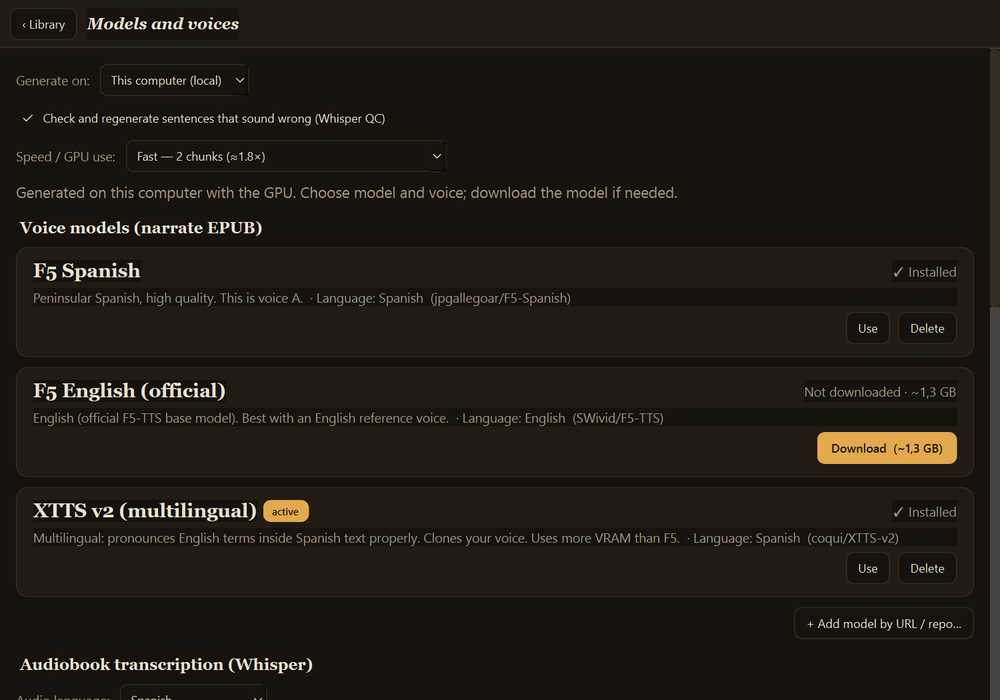
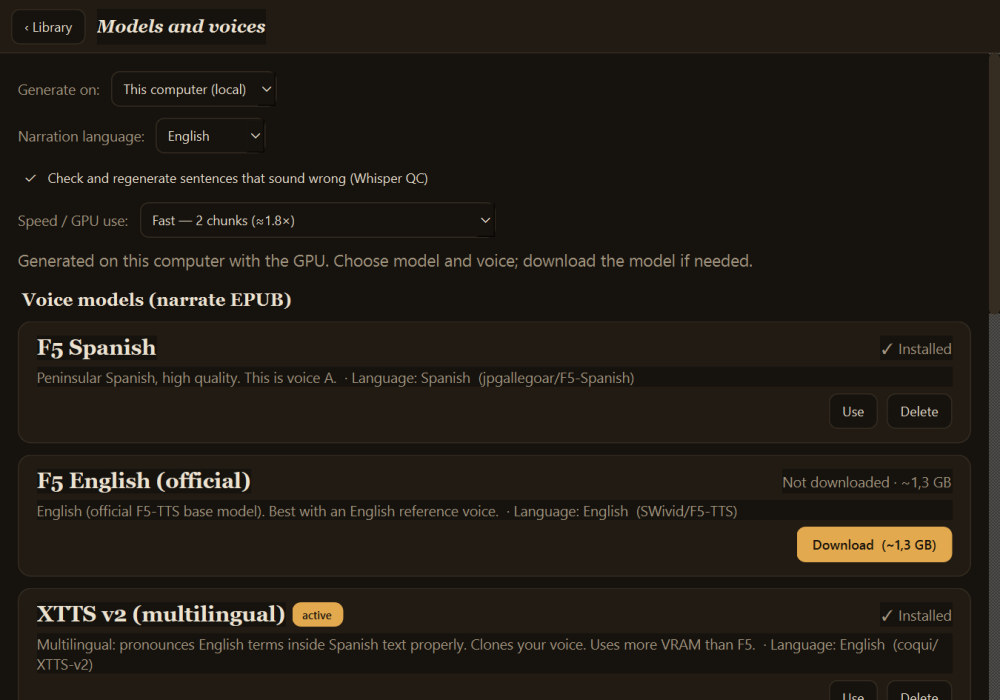
Versión 1.1: portada, changelog y textos sin el nombre de una máquina
Cada función nueva actualiza la portada: narrar en 17 idiomas, el servicio de voz por URL y las pausas
que siguen la puntuación, en los dos README y en la captura de Modelos. Seguridad menciona también
CodeQL y los tests en CI. Los textos de la app ya no nombran una máquina concreta: dicen «servidor».

Claude-Session: https://claude.ai/code/session_01St6UgjAcgBaqt8Zxu2zhgo

diff --git a/storyteller.py b/storyteller.py
@@ -2,9 +2,9 @@
 """
 Storyteller — app de escritorio (PySide6).
 Biblioteca de libros narrados + reproductor con subtitulos sincronizados.
-Lee un EPUB, lo manda a Mint para narrarlo con la voz neural (F5, voz A),
+Lee un EPUB, lo manda al servidor para narrarlo con la voz neural (F5, voz A),
 se trae la grabacion + el mapa de tiempos y lo reproduce (frase que suena
-resaltada, clic para saltar). La generacion corre en Mint (GPU) por SSH.
+resaltada, clic para saltar). La generacion corre en el servidor (GPU) por SSH.
 """
 import sys, os, re, json, shutil, subprocess, time, tempfile, threading
 from pathlib import Path
@@ -24,7 +24,7 @@ from st_core import (ACTIVE_GEN, EtaTracker, _atomic_write, book_resumable, chap
                      merge_stream_manifests, read_gen_state, recover_interrupted, slug,
                      split_ranges, snapshot_chapter as core_snapshot_chapter, venv_has, ENGINE_PACKAGES)
 
-__version__ = "1.0"
+__version__ = "1.1"
 
 MINT       = ""                      # servidor propio opcional (user@host); se configura en Modelos
 REMOTE_DIR = "epub-tts"                # relativa al home del usuario del servidor
@@ -163,8 +163,8 @@ def whisper_installed(w):
     return (model_dir(w["id"]) / "model.bin").exists()
 def qc_args_local(cfg=None):
     """Args de QC para los motores LOCALES (4070): usan el Whisper descargado en
-    «Modelos» (en CPU, sin red), NUNCA el voz-server del Mint. El remoto (Mint) hace
-    su QC en el propio Mint. Devuelve (args, aviso-o-None)."""
+    «Modelos» (en CPU, sin red), NUNCA el voz-server del servidor. El remoto hace
+    su QC en el propio servidor. Devuelve (args, aviso-o-None)."""
     cfg = cfg or load_config()
     if not cfg.get("qc_auto"):
         return [], None
@@ -401,7 +401,7 @@ class GenWorker(QThread):
                               encoding="utf-8", errors="replace", creationflags=NOWIN)
 
     def stop(self, save):
-        """Detiene la narración en Mint. save=True conserva lo hecho; False descarta."""
+        """Detiene la narración en el servidor. save=True conserva lo hecho; False descarta."""
         self.mode = "stopsave" if save else "cancel"
         try:
             # matar solo el python de narración; el script sigue y rearranca el voz-server
@@ -458,7 +458,7 @@ class GenWorker(QThread):
             if self.xtts:
                 r = self._run(SSH + [self.host, f"test -x {REMOTE_DIR}/.venv-xtts/bin/python && test -x {REMOTE_DIR}/run_xtts.sh"])
                 if r.returncode == 255:                    # 255 = no hay conexión
-                    self.failed.emit(_("No pude enviar el EPUB a Mint:\n") + r.stderr.strip())
+                    self.failed.emit(_("No pude enviar el EPUB al servidor:\n") + r.stderr.strip())
                     return
                 if r.returncode != 0 or not self.voice:
                     self.failed.emit(_("El servidor no tiene instalado XTTS. Elige otro modelo en «Modelos» o instálalo en el servidor."))
@@ -477,15 +477,15 @@ class GenWorker(QThread):
                     shutil.copyfile(epub, tmp_epub); epub = Path(tmp_epub)
             except Exception: pass
             remote_epub = f"{REMOTE_DIR}/inbox/{self.name}.epub"
-            self.progress.emit(_("Enviando el EPUB a Mint…"), -1)
+            self.progress.emit(_("Enviando el EPUB al servidor…"), -1)
             r = self._run(SCP + [str(epub), f"{self.host}:{remote_epub}"])
             if r.returncode != 0:
-                self.failed.emit(_("No pude enviar el EPUB a Mint:\n") + r.stderr.strip()); return
+                self.failed.emit(_("No pude enviar el EPUB al servidor:\n") + r.stderr.strip()); return
             if self.xtts:
                 try:
                     self._send_xtts(dest)
                 except RuntimeError as e:
-                    self.failed.emit(_("No pude enviar el EPUB a Mint:\n") + str(e)); return
+                    self.failed.emit(_("No pude enviar el EPUB al servidor:\n") + str(e)); return
 
             self.progress.emit(_("Reanudando el motor de voz…") if self.resume
                                else _("Arrancando el motor de voz…"), -1)
@@ -684,7 +684,7 @@ class LocalGenWorker(QThread):
                     cmd += ["--resume"]
                 if pron.exists():
                     cmd += ["--pron", str(pron)]
-                _qa, _note = qc_args_local()                 # QC en LOCAL = Whisper local (nunca el Mint)
+                _qa, _note = qc_args_local()                 # QC en LOCAL = Whisper local (nunca el servidor)
                 if _note: self.progress.emit(_note, -1)
                 cmd += _qa
             else:
@@ -700,7 +700,7 @@ class LocalGenWorker(QThread):
                     cmd += ["--pron", str(pron)]                  # diccionario de pronunciación
                 if self.voice:
                     cmd += ["--voice", str(self.voice["wav"]), "--voice-text", str(self.voice["txt"])]
-                _qa, _note = qc_args_local()                 # QC en LOCAL = Whisper local (nunca el Mint)
+                _qa, _note = qc_args_local()                 # QC en LOCAL = Whisper local (nunca el servidor)
                 if _note: self.progress.emit(_note, -1)
                 cmd += _qa
             # Nº de tramos en paralelo: reparte los capítulos entre N procesos en la
@@ -1610,8 +1610,8 @@ class ModelsScreen(QWidget):
         self.qcChk = QCheckBox(_("Revisar y regenerar frases que suenen mal (QC Whisper)"))
         self.qcChk.setToolTip(_("Tras narrar cada frase, la transcribe con Whisper y, si no coincide con el "
                               "texto, la regenera. Más lento pero caza alucinaciones. Usa el Whisper del "
-                              "sitio donde narras: en LOCAL el modelo descargado en «Modelos»; en el Mint, "
-                              "el del Mint. (En local hace falta un modelo Whisper descargado.)"))
+                              "sitio donde narras: en LOCAL el modelo descargado en «Modelos»; en el servidor, "
+                              "el del servidor. (En local hace falta un modelo Whisper descargado.)"))
         self.qcChk.setCursor(Qt.PointingHandCursor)
         self.qcChk.toggled.connect(self._qc_changed)
         self.col.addWidget(self.qcChk)

diff --git a/st_lang.py b/st_lang.py
@@ -47,8 +47,8 @@ SOURCE = [
     'quedan {0} (hacia las {1})',  # 28
     'quedan {0} ({1})',  # 29
     'Sección {0}',  # 30
-    'Enviando el EPUB a Mint…',  # 31
-    'No pude enviar el EPUB a Mint:\n',  # 32
+    'Enviando el EPUB al servidor…',  # 31
+    'No pude enviar el EPUB al servidor:\n',  # 32
     'Reanudando el motor de voz…',  # 33
     'Arrancando el motor de voz…',  # 34
     'Narrando capítulo {0}/{1} — frase {2}',  # 35
@@ -108,7 +108,7 @@ SOURCE = [
     'Servidor:',  # 89
     'usuario@host de tu servidor (SSH)',  # 90
     'Revisar y regenerar frases que suenen mal (QC Whisper)',  # 91
-    'Tras narrar cada frase, la transcribe con Whisper y, si no coincide con el texto, la regenera. Más lento pero caza alucinaciones. Usa el Whisper del sitio donde narras: en LOCAL el modelo descargado en «Modelos»; en el Mint, el del Mint. (En local hace falta un modelo Whisper descargado.)',  # 92
+    'Tras narrar cada frase, la transcribe con Whisper y, si no coincide con el texto, la regenera. Más lento pero caza alucinaciones. Usa el Whisper del sitio donde narras: en LOCAL el modelo descargado en «Modelos»; en el servidor, el del servidor. (En local hace falta un modelo Whisper descargado.)',  # 92
     'Velocidad / uso de GPU:',  # 93
     'Normal — 1 tramo (no satura la GPU, más lento)',  # 94
     'Rápido — 2 tramos (≈1,8×)',  # 95

diff --git a/engine/cc_service.py b/engine/cc_service.py
@@ -139,7 +139,7 @@ class Client:
         self.language = language or ""           # la API estándar no lo lleva; si lo rechaza, se deja de mandar
 
     def _call(self, path, body=None, timeout=TIMEOUT):
-        head = {"User-Agent": "Storyteller/1.0"}  # Cloudflare corta el de Python
+        head = {"User-Agent": "Storyteller/1.1"}  # Cloudflare corta el de Python
         if self.key:
             head["Authorization"] = "Bearer " + self.key
         if body is not None:

diff --git a/st_server.py b/st_server.py
@@ -20,7 +20,7 @@ from pathlib import Path
 import array, tempfile
 from urllib.parse import unquote, urlsplit
 
-__version__ = "1.0"
+__version__ = "1.1"
 DEFAULT_PORT = 8765
 MAX_INPUT = 4096                     # como la API de OpenAI; una frase son unos 200 caracteres
 MAX_BODY = 1024 * 1024

diff --git a/README.es.md b/README.es.md
@@ -8,10 +8,10 @@
 </p>
 
 Aplicación de escritorio (PySide6) que convierte **EPUB en audiolibro narrado** con
-voz neural y lo reproduce con **subtítulos sincronizados** (la frase que suena se
-resalta; clic para saltar). También **importa audiolibros existentes** y los
-**transcribe con Whisper** para generar esos subtítulos, y **traduce libros y documentos**
-entre 15 idiomas con TranslateGemma.
+voz neural, en el idioma que elijas (17 disponibles con XTTS), y lo reproduce con
+**subtítulos sincronizados** (la frase que suena se resalta; clic para saltar). También
+**importa audiolibros existentes** y los **transcribe con Whisper** para generar esos
+subtítulos, y **traduce libros y documentos** entre 15 idiomas con TranslateGemma.
 
 Todo corre **en local** (GPU o CPU) o, si quieres, en un **servidor propio** por SSH.
 La narración también puede usar **cualquier servicio de voz por URL**: el tuyo o uno público con su clave.
@@ -22,17 +22,25 @@ Los **modelos y las voces no vienen incluidos**: se **descargan desde la propia 
 - **Narrar un EPUB** con TTS neural, eligiendo motor en *Modelos*:
   - **XTTS v2 multilingüe** (coqui-tts): lee la frase entera de una pasada y pronuncia
     bien las palabras en otro idioma dentro del texto (p. ej. inglés en un libro en
-    español). Clona la voz a partir de un audio de referencia.
+    español). Clona la voz a partir de un audio de referencia. Narra en **17 idiomas**,
+    que se eligen en *Modelos*: español, inglés, francés, alemán, italiano, portugués,
+    neerlandés, polaco, checo, húngaro, turco, ruso, árabe, hindi, chino, japonés y coreano.
   - **F5-TTS** (Español o Inglés): un modelo por idioma.
+  - **Un servicio de voz por URL**: tu propio XTTS con `st_server.py` ([API](docs/server-api.md))
+    o un servicio público con su clave, con varias **peticiones a la vez**. Ahí tu servidor
+    también puede recibir voces nuevas y dar libros terminados a otras apps.
+- **Pausas que sigue el libro**: corta en cada coma, así que las pausas tras una coma, un
+  punto y un párrafo las marca la puntuación y no se dejan al modelo.
 - **Tramos en paralelo** (1, 2 o 3): reparte los capítulos entre varios procesos en la
   misma GPU; con XTTS, 3 tramos narran unas 2,5 veces más rápido.
 - **Tiempo restante** en la barra de progreso («quedan ~1 h 10 min, hacia las 14:35»),
   calculado con el ritmo real de cada tramo.
 - **Control de calidad (QC) con Whisper**: transcribe cada frase narrada y la regenera
-  si faltan palabras, se inventa texto o entra en bucle repitiendo.
-- **Texto preparado para la voz**: números en palabras en el idioma del modelo, siglas
+  si faltan palabras, se inventa texto o entra en bucle repitiendo. También mide el audio,
+  porque Whisper no oye el balbuceo sin palabras.
+- **Texto preparado para la voz**: números en palabras en el idioma que se narra, siglas
   deletreadas, MAYÚSCULAS, puntuación, y un **diccionario de pronunciación** editable
-  (`pron.json`) para las palabras que suenen mal.
+  (`pron.json`, con una parte por idioma) para las palabras que suenen mal.
 - **Importar un audiolibro** (mp3/m4a/…) y transcribirlo con Whisper → subtítulos
   con tiempos. Idioma seleccionable o autodetección.
 - **Reproductor** con subtítulos sincronizados, autoscroll, control de velocidad,
@@ -43,7 +51,8 @@ Los **modelos y las voces no vienen incluidos**: se **descargan desde la propia 
 - **Detener y guardar / Reanudar** tanto la narración como la transcripción, también con
   otro modelo (lo ya hecho se conserva; van por
   bloques y guardan el progreso; se continúan desde la misma frase). Cerrar la app
-  durante una narración equivale a «Detener y guardar».
+  durante una narración equivale a «Detener y guardar». Hay un solo trabajo a la vez: al
+  reanudar otro libro, pregunta si detiene el actual, que queda guardado, y pasa a él.
 - **Biblioteca**: reanudar libros a medias, **regenerar** uno desde su EPUB original y
   borrarlo.
 - **Traducir documentos** (botón *Traducir…*) con **TranslateGemma**: EPUB, PDF, Word,
@@ -54,7 +63,7 @@ Los **modelos y las voces no vienen incluidos**: se **descargan desde la propia 
   (Ollama por SSH). Se puede detener y reanudar, también con otro modelo, y el EPUB
   traducido se manda a narrar con un clic.
 - **Gestor de modelos** (pantalla *Modelos*): descargar/borrar modelos de voz (XTTS v2,
-  F5) y de transcripción (faster-whisper), con barra de progreso (tamaño, velocidad, tiempo restante) y *Cancelar*, elegir idioma, tramos en paralelo y QC, y
+  F5) y de transcripción (faster-whisper), con barra de progreso (tamaño, velocidad, tiempo restante) y *Cancelar*, elegir el idioma de la narración, tramos en paralelo y QC, y
   **cargar voces** desde archivo
   o por URL (el texto de referencia se **autotranscribe**). Catálogo de voces
   descargables.
@@ -76,7 +85,6 @@ Los **modelos y las voces no vienen incluidos**: se **descargan desde la propia 
   QC) + `beautifulsoup4` + `lxml` (para leer el EPUB), **sin** `torchcodec` (torch ≥ 2.9 lo
   exige y en Windows falla). Para narrar en japonés o chino necesita además
   `cutlet fugashi unidic-lite` o `pypinyin`.
-
 - Traducción: se instala sola desde su pantalla (`engine/.venv-translate` y
   `engine/llama.cpp`). En modo servidor, Ollama en el servidor.
 
@@ -180,7 +188,8 @@ El modo *Servidor propio* usa un motor equivalente en el servidor por SSH (no in
 ## Seguridad
 
 Escaneo continuo con **Trivy** (`.github/workflows/trivy.yml`): vulnerabilidades,
-secretos y malas configuraciones en cada push/PR.
+secretos y malas configuraciones en cada push/PR y cada semana. **CodeQL** analiza el código,
+los tests corren en CI y cada Action está fijada por commit.
 
 ## Contribuir
 

diff --git a/README.md b/README.md
@@ -8,10 +8,10 @@
 </p>
 
 Desktop app (PySide6) that turns an **EPUB into a narrated audiobook** with a neural
-voice and plays it with **synced subtitles** (the sentence being read is highlighted;
-click to jump). It also **imports existing audiobooks** and **transcribes them with
-Whisper** to make those subtitles, and **translates books and documents** between 15
-languages with TranslateGemma.
+voice, in the language you choose (17 available with XTTS), and plays it with **synced
+subtitles** (the sentence being read is highlighted; click to jump). It also **imports
+existing audiobooks** and **transcribes them with Whisper** to make those subtitles, and
+**translates books and documents** between 15 languages with TranslateGemma.
 
 Everything runs **locally** (GPU or CPU) or, if you like, on **your own server** over SSH.
 Narration can also use **any voice service by URL**: your own or a public one with its key.
@@ -22,17 +22,26 @@ Narration can also use **any voice service by URL**: your own or a public one wi
 - **Narrate an EPUB** with neural TTS, choosing the engine in *Models*:
   - **XTTS v2 multilingual** (coqui-tts): reads the whole sentence in one go and
     pronounces foreign words in the text properly (e.g. English inside a Spanish book).
-    Clones the voice from a reference recording.
+    Clones the voice from a reference recording. Narrates in **17 languages**, chosen in
+    *Models*: English, Spanish, French, German, Italian, Portuguese, Dutch, Polish, Czech,
+    Hungarian, Turkish, Russian, Arabic, Hindi, Chinese, Japanese and Korean.
   - **F5-TTS** (Spanish or English): one model per language.
+  - **A voice service by URL**: your own XTTS with `st_server.py` ([API](docs/server-api.md))
+    or a public service with its key, with several **requests at a time**. There your own
+    server can also receive new voices and hand finished books to other apps.
+- **Pauses that follow the book**: it cuts at every comma, so the pauses after a comma, a
+  full stop and a paragraph are set by the punctuation and not left to the model.
 - **Parallel chunks** (1, 2 or 3): splits the chapters between several processes on the
   same GPU; with XTTS, 3 chunks narrate about 2.5 times faster.
 - **Time left** in the progress bar ("~1 h 10 min left, done around 14:35"), worked out
   from each chunk's real pace.
 - **Quality check (QC) with Whisper**: transcribes every narrated sentence and
-  regenerates it when words are missing, text is made up or it gets stuck repeating.
-- **Text prepared for the voice**: numbers spelled out in the model's language,
+  regenerates it when words are missing, text is made up or it gets stuck repeating. It also
+  measures the audio, because Whisper doesn't hear babbling without words.
+- **Text prepared for the voice**: numbers spelled out in the language being narrated,
   acronyms spelled letter by letter, CAPITALS, punctuation, and an editable
-  **pronunciation dictionary** (`pron.json`) for words that sound wrong.
+  **pronunciation dictionary** (`pron.json`, with a part for each language) for words that
+  sound wrong.
 - **Import an audiobook** (mp3/m4a/…) and transcribe it with Whisper → timed subtitles.
   Language can be chosen or detected.
 - **Player** with synced subtitles, autoscroll, speed control, skips, go to
@@ -43,7 +52,8 @@ Narration can also use **any voice service by URL**: your own or a public one wi
 - **Stop and save / Resume** both narration and transcription, even with another model
   (what is already done is kept; they work in blocks and
   save progress; they carry on from the same sentence). Closing the app during a
-  narration is the same as *Stop and save*.
+  narration is the same as *Stop and save*. One job runs at a time: resuming another book
+  asks whether to stop the current one, which stays saved, and switch to it.
 - **Library**: resume half-done books, **regenerate** one from its original EPUB, and
   delete it.
 - **Translate documents** (*Translate…* button) with **TranslateGemma**: EPUB, PDF, Word,
@@ -55,7 +65,7 @@ Narration can also use **any voice service by URL**: your own or a public one wi
   resumed, even with another model, and the translated EPUB can be sent to narration
   with one click.
 - **Model manager** (*Models* screen): download/delete voice models (XTTS v2, F5) and
-  transcription models (faster-whisper), with a progress bar (size, speed, time left) and *Cancel*, choose the language, parallel chunks and QC,
+  transcription models (faster-whisper), with a progress bar (size, speed, time left) and *Cancel*, choose the narration language, parallel chunks and QC,
   and **load voices** from a file or a URL (the reference text is **transcribed
   automatically**). Catalogue of downloadable voices.
 
@@ -179,7 +189,8 @@ the system language (English if it is not in the list); to force one, use
 ## Security
 
 Continuous scanning with **Trivy** (`.github/workflows/trivy.yml`): vulnerabilities,
-secrets and misconfigurations on every push/PR.
+secrets and misconfigurations on every push/PR and every week. **CodeQL** analyzes the code,
+the tests run in CI, and every Action is pinned by commit.
 
 ## Contributing
 

diff --git a/CHANGELOG.md b/CHANGELOG.md
@@ -1,15 +1,43 @@
 # Changelog
 
-## Unreleased
+## 1.1 (2026-11-02)
 
 ### New
+- **Narration in 17 languages**: XTTS and voice services read in the language chosen in *Models*.
+  Numbers, decimals and the length of each piece follow that language, and the pronunciation
+  dictionary has a part for each one (`langs` in `pron.json`). Japanese needs
+  `cutlet fugashi unidic-lite` and Chinese `pypinyin` in the XTTS environment; the app says so.
+- **A voice service by URL**: narrate with your own XTTS (`st_server.py`, see
+  [its API](docs/server-api.md)) or with a public service. *Requests at a time* (1 to 4) sends several
+  sentences at once and writes them in order; the server opens up to 3 XTTS if they fit on the card.
+- **`st_server`**: `language` on each request, uploading a voice, and handing out the finished
+  chapters of the library to other apps.
+- **XTTS on your own server**, not only F5.
+- **Pauses that follow the punctuation**: narration cuts at every comma, and you hear about 0.30 s
+  after a comma, 0.63 s after a full stop and 0.98 s after a paragraph. A half-done chapter whose
+  pieces no longer match is narrated again; finished ones are kept.
 - **Download progress**: a bar fixed at the bottom of the *Models* screen shows size, percentage,
   speed and time left, with a *Cancel* button, for every model. The *Models* button in the library
   shows the percentage too.
 
 ### Fixed
+- Books in Russian, Chinese, Japanese, Arabic or any other non-Latin alphabet ended up with nothing
+  to narrate. Chinese and Japanese are now also cut where they have no space after the sign.
+- Spanish text rules (abbreviations, dollars, «igual a») were applied to every language.
+- The quality check passed anything that wasn't in the Latin alphabet, and it missed babbling
+  without words: it now also measures the voice after the last word and the length of the clip.
+- Resuming an audiobook while something else was running started both at once, sharing one progress
+  bar and one *Stop* button, and with two audiobooks the first could no longer be stopped. One job
+  runs at a time now, and resuming another book asks whether to stop the current one and switch.
+- On a new clone the app said the engine was being installed forever and wouldn't download Whisper.
+- The translator keeps the original text when the model's answer is still broken after retrying.
 - *Delete* on XTTS v2 only removed an empty folder and left the 1.8 GB model on disk.
 - A cut-off XTTS download could look installed. Closing the app during a download now stops it.
+- Buttons could be cut off in the library with the window at its smallest during a download.
+
+### Security
+- GitHub Actions pinned by commit, CodeQL added, Trivy with SARIF and a weekly run, `SECURITY.md` and
+  `CONTRIBUTING.md`. No known vulnerability was fixed in this version.
 
 ## 1.0 (2026-11-01)
 
